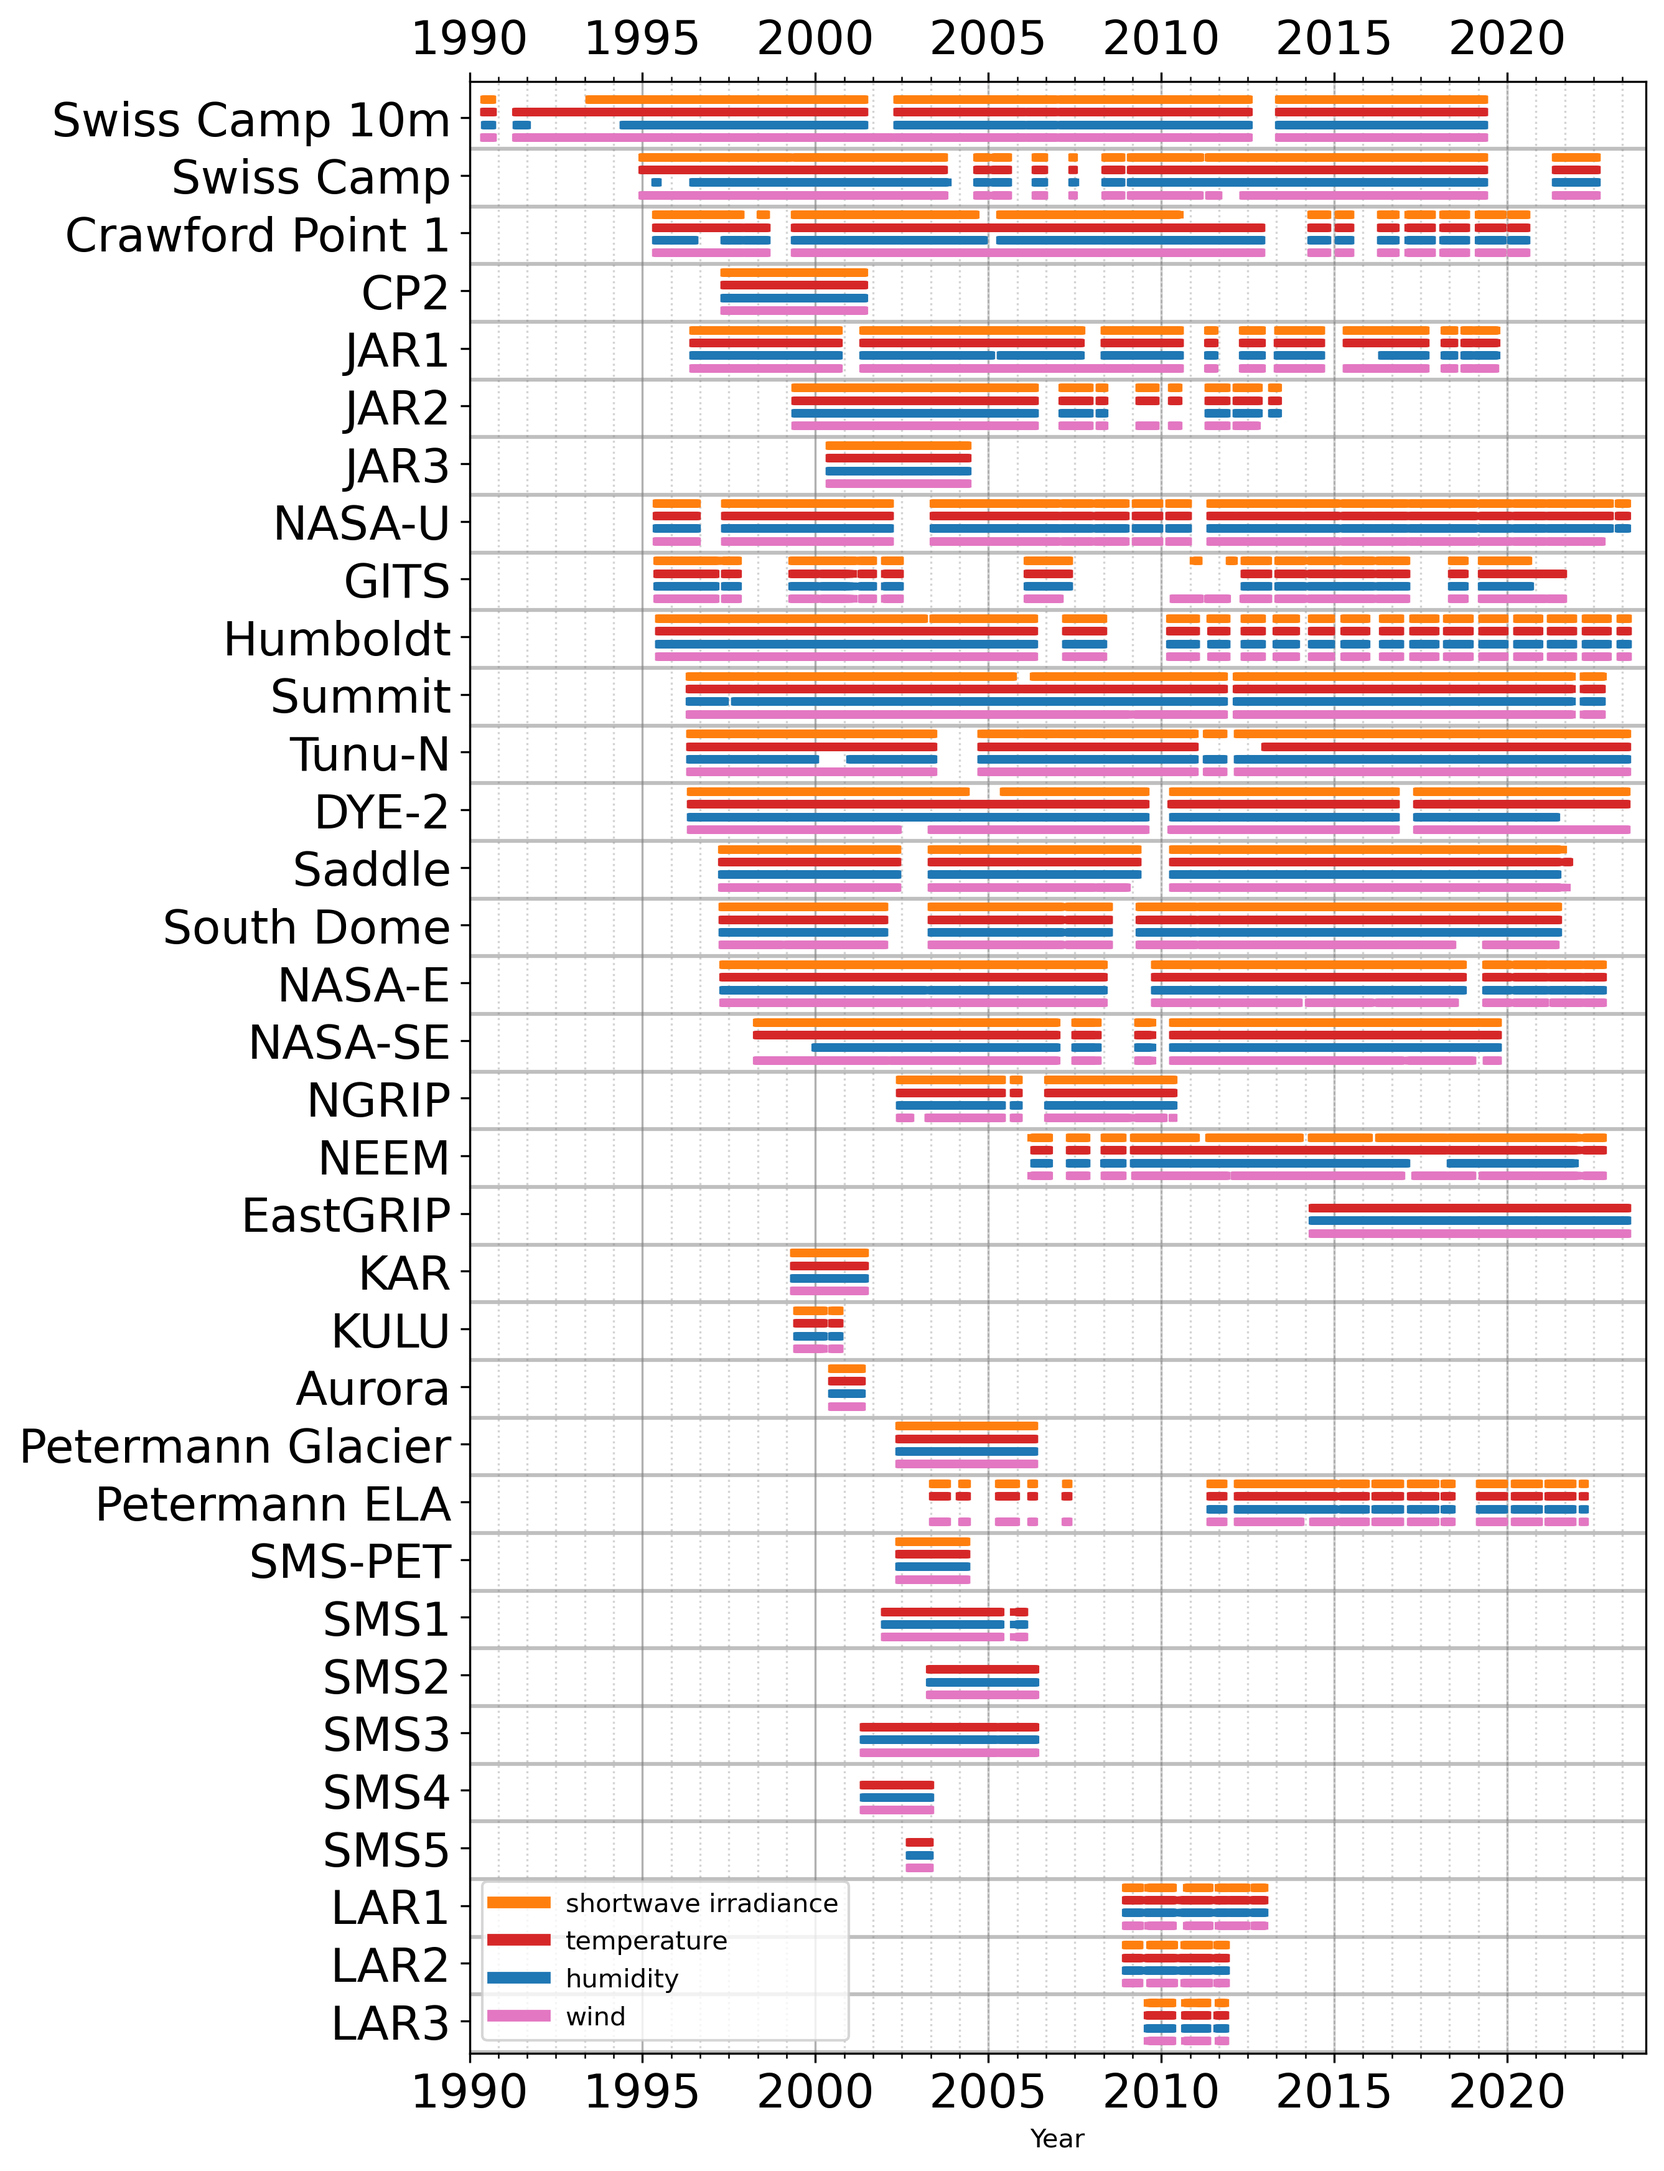
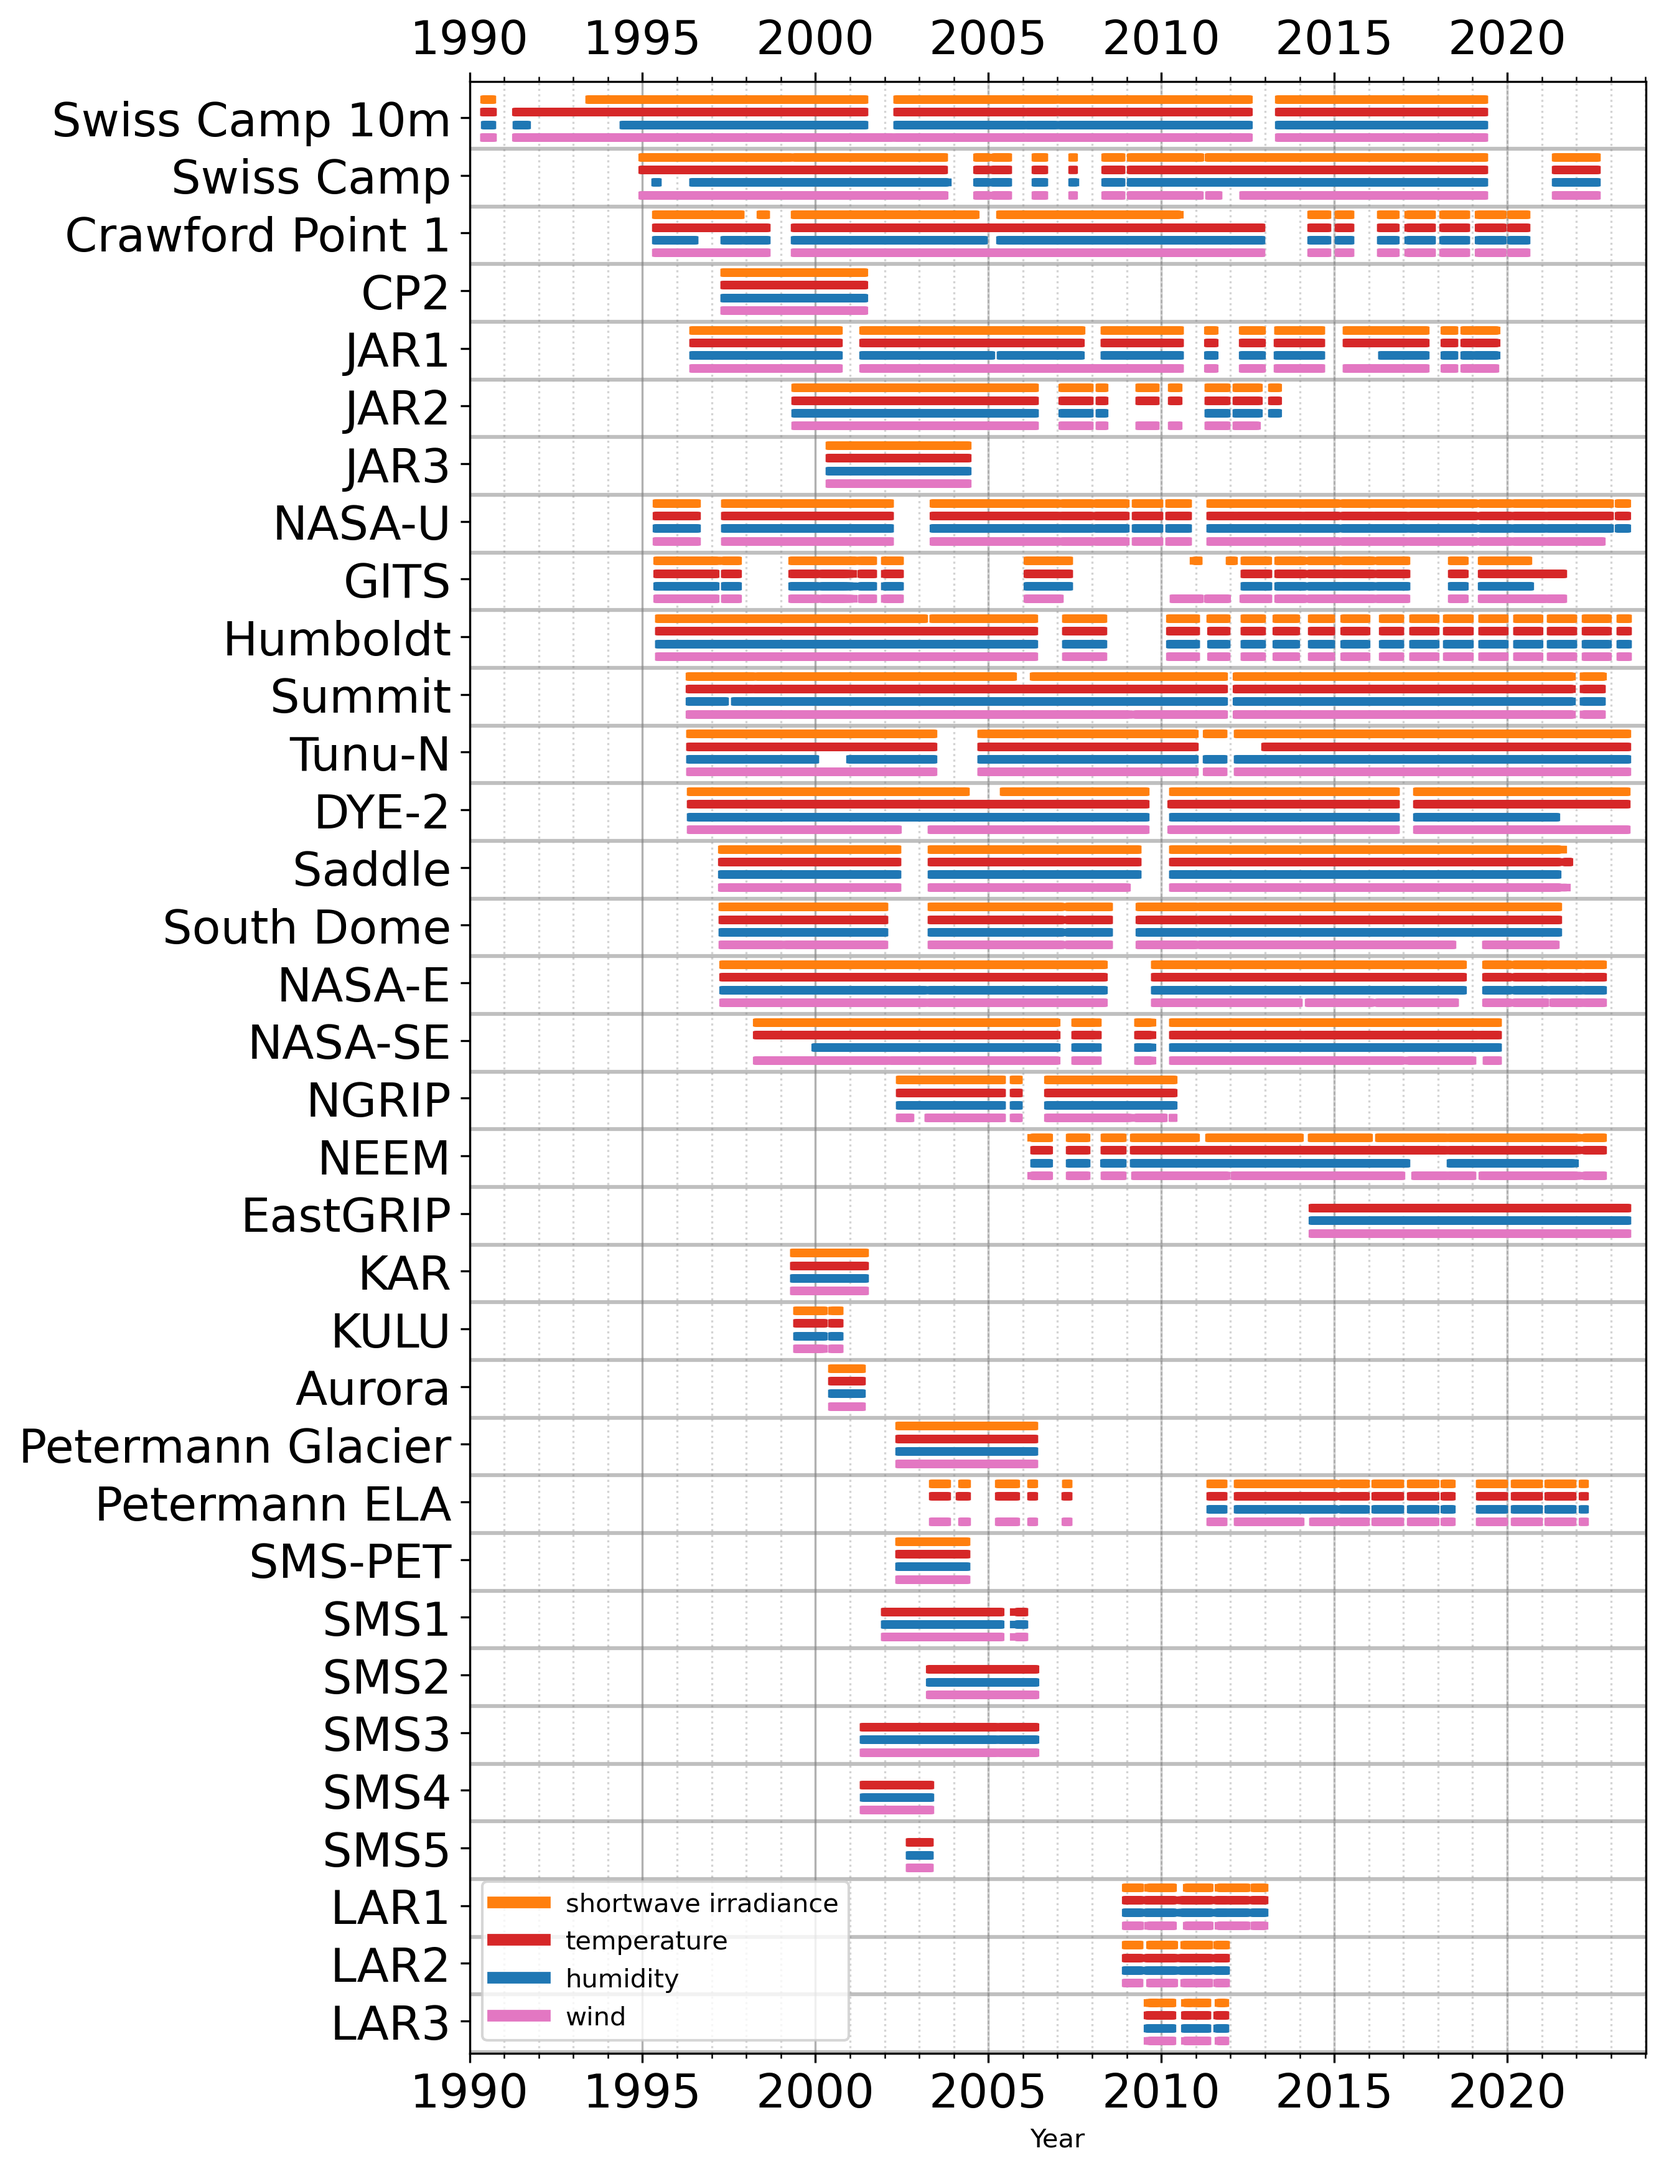
some plot adjustments

diff --git a/tools/L1-analysis.py b/tools/L1-analysis.py
@@ -21,7 +21,7 @@ from matplotlib.dates import DateFormatter
 import matplotlib.dates as mdates
 import requests
 
-os.chdir('..')
+# os.chdir('..')
 import tocgen
 
 # %% L0 overview
@@ -299,21 +299,24 @@ for site, ID in zip(site_list.Name, site_list.ID):
         tmp[tmp==0] = np.nan
         plt.plot(tmp.index, tmp.values, color = col[i], marker='s',markersize=2)
         count = count+1
+
 plt.yticks(np.arange(len(site_list.Name))*(-4) - 1.5,
            site_list.Name, fontsize=18)
 plt.xticks([pd.to_datetime(str(y)) for y in range(1990,2025,5)],
            [(str(y)) for y in range(1990,2025,5)], 
            fontsize=18)
+from matplotlib.ticker import (MultipleLocator, AutoMinorLocator)
 plt.plot(np.nan,np.nan, color = col[0], label='shortwave irradiance', linewidth = 4.5)
 plt.plot(np.nan,np.nan, color = col[1], label='temperature', linewidth = 4.5)
 plt.plot(np.nan,np.nan, color = col[2], label='humidity', linewidth = 4.5)
 plt.plot(np.nan,np.nan, color = col[3], label='wind', linewidth = 4.5)
 plt.legend(loc='lower left')
 plt.grid(axis='x')
-plt.minorticks_on()
+plt.gca().xaxis.set_minor_locator(AutoMinorLocator(5))
+
 plt.grid(which='minor', color='lightgray', linestyle=':')
 plt.ylim(-count+1/4, 1)
-plt.xlim(pd.to_datetime('1990'),pd.to_datetime('2023'))
+plt.xlim(pd.to_datetime('1990'),pd.to_datetime('2024'))
 plt.xlabel('Year')
 plt.tick_params(labelbottom=True, which="both", labeltop=True, bottom=True, top=True)
 for y in np.arange(len(site_list.Name))*(-4) - 3.65:
@@ -322,6 +325,10 @@ fig.savefig(
     "figures/L1_overview/data_availability.png",
     bbox_inches="tight",
     dpi=300
+)
+fig.savefig(
+    "./Figure8.tif",dpi=900,
+    bbox_inches="tight",
 )
 
 # %% L1 temperature overview
@@ -772,6 +779,7 @@ fig.text(0.02, 0.5,
     rotation="vertical",
 )
 fig.savefig("figures/L1_overview/HS_overview_accum.png", bbox_inches="tight", dpi=300)
+fig.savefig("./HS_overview_accum.pdf", bbox_inches="tight")
 
 # plt.close('all')
 site_list = pd.read_csv("L1/GC-Net_location.csv", header=0, skipinitialspace=(True))
@@ -834,6 +842,7 @@ fig.text(0.02, 0.5,
     rotation="vertical",
 )
 fig.savefig("figures/L1_overview/HS_overview_abl.png", bbox_inches="tight", dpi=300)
+fig.savefig("./HS_overview_abl.pdf", bbox_inches="tight")
 
 # %% Ablation JAR transect
 

diff --git a/tools/read_plot_GCNet_heights_bav.py b/tools/read_plot_GCNet_heights_bav.py
@@ -37,7 +37,7 @@ site_list = pd.read_csv("L1/GC-Net_location.csv", header=0, skipinitialspace=Tru
 # 'GITS', 'Humboldt', 'Summit', 'Tunu-N', 'DYE2', 'JAR1', 'Saddle',
 # 'South Dome', 'NASA-E', 'CP2', 'NGRIP', 'NASA-SE', 'KAR', 'JAR 2',
 # 'KULU', 'Petermann ELA', 'NEEM', 'E-GRIP'
-site_list = site_list.loc[site_list.Name.values == 'NASA-SE',:]
+site_list = site_list.loc[site_list.Name.values == 'Summit',:]
 
 for site, ID in zip(site_list.Name, site_list.ID):
     print("# " + str(ID) + " " + site)
@@ -202,6 +202,11 @@ for site, ID in zip(site_list.Name, site_list.ID):
         bbox_inches="tight",
         dpi=250,
     )
+    plt.savefig(
+        "./" + site.replace(" ", "") + "_height_comparison.pdf", format='pdf',
+        bbox_inches="tight",
+    )
+    
     print(
         "![](../figures/L1_overview/instrument_height_assessment/"
         + site.replace(" ", "")
